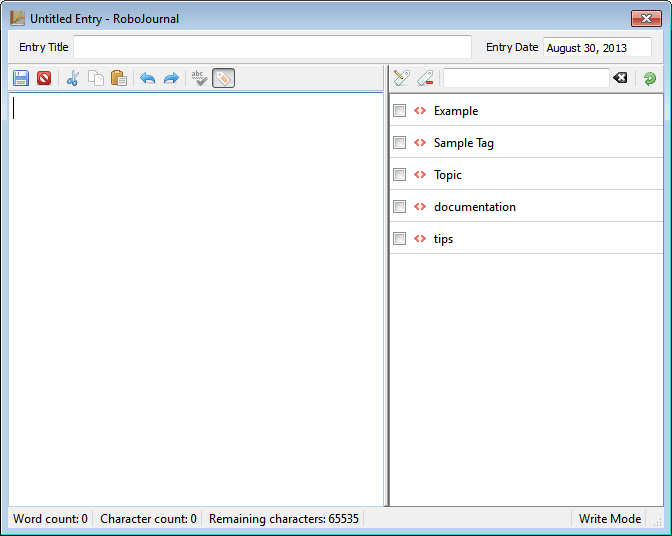
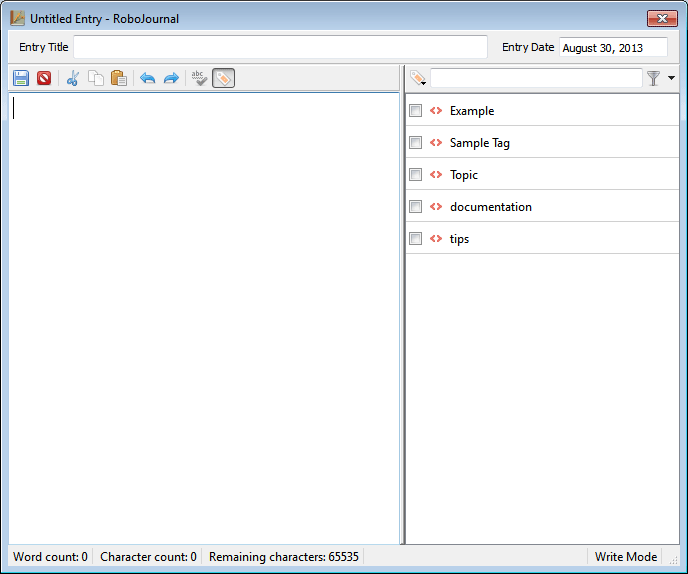
made changes to documentation

Changed region(s): [[0.0, 0.0, 1.0, 1.0], [0.0, 0.209, 0.0312, 0.2388]]

diff --git a/doc/tags.html b/doc/tags.html
@@ -63,26 +63,29 @@ system</a>, it is far easier to use the built-in tagging system to keep related
 entries together.</p>
 
 <p>RoboJournal's tagging system is designed to work with the currently-selected
-entry in the Timeline or the entry that is currently open in
-the Editor. As such, using the tagging system requires an active database
-connection. All tag-related functionality is locked while RoboJournal is in
-Default State due to there being no point of reference. </p>
+entry in the Timeline or the entry that is currently open in the Editor. As
+such, using the tagging system requires an active database connection. All
+tag-related functionality is locked while RoboJournal is in Default State due
+to there being no point of reference. </p>
 
 <p>In version 0.5 and later, RoboJournal's tagging system has been completely
 redesigned to be much more straightforward and intuitive. The new interface is
 intended to streamline the task of applying or removing tags from entries;
 instead of adding tags one at a time from a drop-down list (as was the case in
 older versions) the new system makes adding tags to entries as simple as
-checking items from a list of all available tags. </p>
+checking items from a list of all available tags. Furthermore, most tag-related
+functions have been consolidated into drop-down toolbar menus:</p>
+
+<p>[picture of menus goes here]</p>
 
 <p>In addition to the standalone Manage Tags window, the tagging system has
-been integrated into the Editor as the Tag Management Pane. The Tag Management
-Pane conveniently allows you to tag new entries as you write them. The Manage
-Tags window and the Tag Management Pane can only work with one entry at a time.
-Since RoboJournal equally distributes tagging functionality through the classic
-Manage Tags window and the Editor itself (to the point of literally using the
-same interface for both), it does not matter which method you use to tag your
-entries since both ways produce identical results.</p>
+also been integrated into the Editor as the Tag Management Pane. The Tag
+Management Pane conveniently allows you to tag new entries as you write them.
+The Manage Tags window and the Tag Management Pane can only work with one entry
+at a time. Since RoboJournal equally distributes tagging functionality through
+the classic Manage Tags window and the Editor itself (to the point of literally
+using the same interface for both), it does not matter which method you use to
+tag your entries since both ways produce identical results.</p>
 
 <h3 id="Best">Best Practices</h3>
 
@@ -136,8 +139,8 @@ standalone Manage Tags window can also be invoked from the Tag Reminder window
 details). </p>
 <ol class="list">
   <li>Click to select the entry you wish to tag (indicated by the large oval in
-    Figure 1) from the Timeline on the RoboJournal main window.
-    <img alt="Figure 1" src="img/screens/mw_tag1.png" class="screenshot"
+    Figure 1) from the Timeline on the RoboJournal main window. <img
+    alt="Figure 1" src="img/screens/mw_tag1.png" class="screenshot"
     height="589" width="750"><span class="caption_wide">Figure 1: Select the
     entry you wish to tag and click the <strong>Manage Tags</strong> toolbar
     button. </span><span class="caption"><img alt="Figure 2"
@@ -150,7 +153,7 @@ details). </p>
     Tags</strong> button (Figure 2) after selecting an entry from the Tag
     Reminder window. In either instance, the Manage Tags window is
     displayed:<img alt="Figure 3" src="img/screens/mw_tag2.png"
-    class="screenshot" height="589" width="751"><span class="caption">Figure 3:
+    class="screenshot" height="589" width="750"><span class="caption">Figure 3:
     The Manage Tags window is always superimposed over the main
   window.</span></li>
   <li>Make all necessary changes (consult <a href="#Assigning">"Applying and
@@ -181,26 +184,28 @@ entries to accumulate in your journal.</p>
 a new entry or modify an existing one:</p>
 <ol class="list">
   <li>Click the <strong>Manage Tags</strong> toolbar button (indicated by the
-    red circle in Figure 4) in the Editor window. Alternatively, click and drag
-    the Tag Management Pane splitter to the left (RoboJournal exerts a small
-    degree of resistance to prevent accidental expansion or collapse). The pane
-    is allowed to expand once you have dragged far enough to the left to
-    overcome resistance: <img alt="Figure 4" src="img/screens/editor_tag1.png"
-    class="screenshot" height="536" width="672"><span class="caption">Figure 4:
-    You can expand the Tag Management Pane by clicking the circled
-    <strong>Manage Tags</strong> toolbar button <em>or</em> by dragging the Tag
-    Management Pane splitter (shown in red) to the left.</span></li>
+    red circle in Figure 4) in the Editor window. Alternatively, you can click
+    and drag the Tag Management Pane splitter to the left (RoboJournal exerts a
+    small degree of resistance to prevent accidental expansion or collapse) to
+    expand it. RoboJournal allows the pane to expand once you have dragged the
+    splitter far enough to the left to overcome resistance: <img alt="Figure 4"
+    src="img/screens/editor_tag1.png" class="screenshot" height="574"
+    width="688"><span class="caption">Figure 4: You can expand the Tag
+    Management Pane by clicking the circled <strong>Manage Tags</strong>
+    toolbar button <em>or</em> by dragging the Tag Management Pane splitter
+    (shown in red) to the left.</span></li>
   <li>Once triggered, the Tag Management Pane expands itself and allows you to
     access the tag data (if any) for the current entry:<img alt="Figure 5"
-    src="img/screens/editor_tag2.png" class="screenshot" height="536"
-    width="672"><span class="caption">Figure 5: RoboJournal allows you to apply
+    src="img/screens/editor_tag2.png" class="screenshot" height="574"
+    width="688"><span class="caption">Figure 5: RoboJournal allows you to apply
     tags to an entry before you save changes to it.</span></li>
   <li>Make all necessary changes (consult <a href="#Assigning">"Applying and
     Removing Tags"</a> for details). </li>
   <li>(Optional) Collapse the Tag Management Pane by toggling the
     <strong>Manage Tags</strong> toolbar button or by dragging the splitter
-    back to the far right of the Editor window. The pane collapses itself once
-    you have dragged the splitter far enough to overcome resistance.</li>
+    back to the far right of the Editor window. Under the second method, the
+    pane collapses itself once you have dragged the splitter far enough to
+    overcome its resistance.</li>
 </ol>
 
 <p>The Tag Management Pane always limits itself to a maximum width no matter
@@ -210,8 +215,8 @@ Preferences.</p>
 
 <p>Unlike the standalone tag management window, the Editor's Tag Management
 Pane does not require you to manually commit changes to an entry's tag data.
-The current tags are automatically saved or updated when you post a new entry
-or save changes to an existing one.</p>
+RoboJournal automatically saves/updates the current entry's tags when you post
+a new entry or save changes to an existing one.</p>
 
 <h2 id="Declaring">Declaring a New Tag</h2>
 
